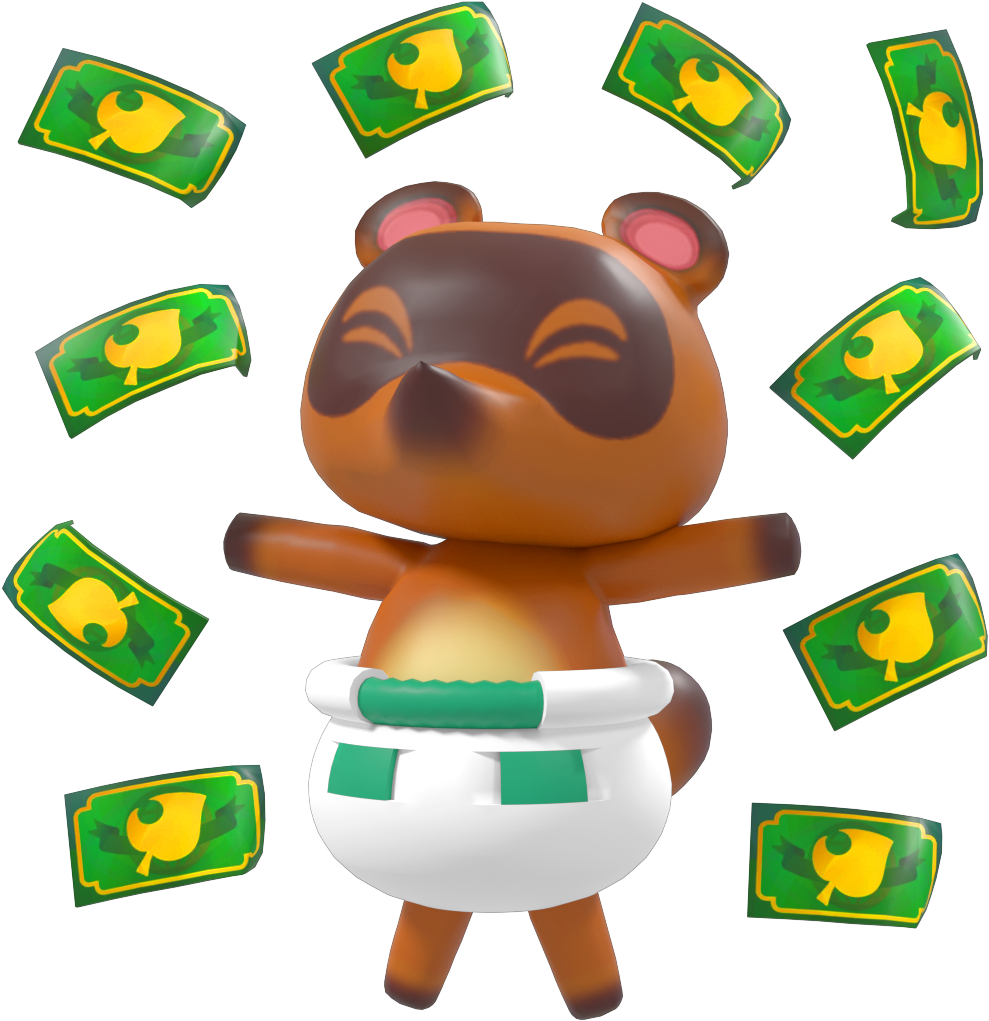
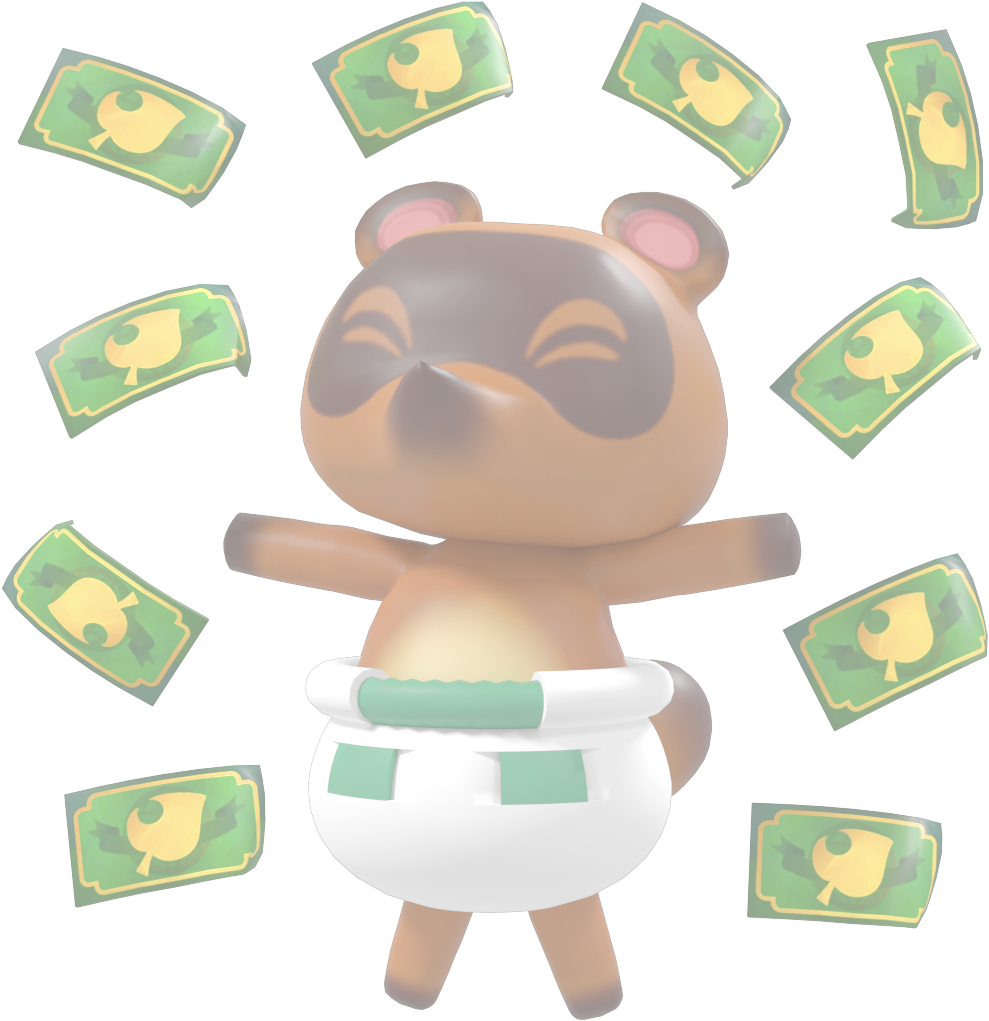
nook nook

diff --git a/IHM/src/pages/Panier.jsx b/IHM/src/pages/Panier.jsx
@@ -148,29 +148,27 @@ export class Panier extends Component {
                 );
         } else {
             const prod = this.state.products.map((data, key) => (
-                <tr key={key}>
-                    <td><img width={50} height={50} className="mr-3" src={data.path} alt="Img product" /></td>
+                
+                <tr key={key} >
+                    <td><Link to={"/productDetail/" + data._id}><img width={50} height={50} className="mr-3" src={data.path} alt="Img product" /></Link> </td>
                     <td>{data.name}</td>
-                    <td>In stock</td>
-                    <td><Form.Control type="number" step={1} min={1} max={data.stock} name="qty" value={this.state.numberTemp[key]} onChange={(e) => this.handleChangeStock(key, e)}/></td>
                     <td>{data.price*this.state.numberTemp[key] || data.price} €</td>
-                    <td><Link to={"/productDetail/" + data._id}><Button className="btn btn-info">Voir produit</Button></Link></td>
+                    <td><Form.Control type="number" step={1} min={1} max={data.stock} name="qty" value={this.state.numberTemp[key]} onChange={(e) => this.handleChangeStock(key, e)}/></td>
                     <td><Button className="btn btn-sm btn-danger" onClick={(e) => this.deletePanier(key)}>X</Button></td>
                 </tr>
+               
             ));
             const priceTotal = this.state.products.reduce((priceTotal, product, index) => priceTotal + product.price*this.state.numberTemp[index], 0) || this.state.products.reduce((priceTotal, product, index) => priceTotal + product.price, 0);
                 return (
                     <Container>
                         <Row>
-                                <Table striped hover responsive variant="">
+                                <Table striped hover responsive variant="" style={{backgroundImage: `url(/img/nook2.png)`, backgroundPosition: 'center', backgroundSize: 'cover', backgroundSize: 'contain', backgroundRepeat: 'no-repeat' }}>
                                     <thead>
                                         <tr>
                                             <th></th>
                                             <th>Product</th>
-                                            <th>Available</th>
-                                            <th>Quantity</th>
                                             <th>Price</th>
-                                            <th></th>
+                                            <th>Quantity</th>
                                             <th></th>
                                         </tr>
                                     </thead>
@@ -191,15 +189,6 @@ export class Panier extends Component {
                             <br/>
                             <br/>
                             <br/>
-                            <Col>
-                                <img
-                                alt="nook"
-                                src="/img/nook2.png"
-                                width="450"
-                                height="450"
-                                className="d-inline-block align-top"/>
-                                <br/><br/><br/>
-                            </Col>
                             
                         </Row>
                     </Container>

diff --git a/IHM/src/pages/Search.jsx b/IHM/src/pages/Search.jsx
@@ -60,7 +60,7 @@ export class Product extends Component {
                         <Col>
                             <br/><br/><br/>
                             <img
-                            alt="nook"
+                            alt="logo"
                             src="/img/logoo.png"
                             width="300"
                             height="150"
